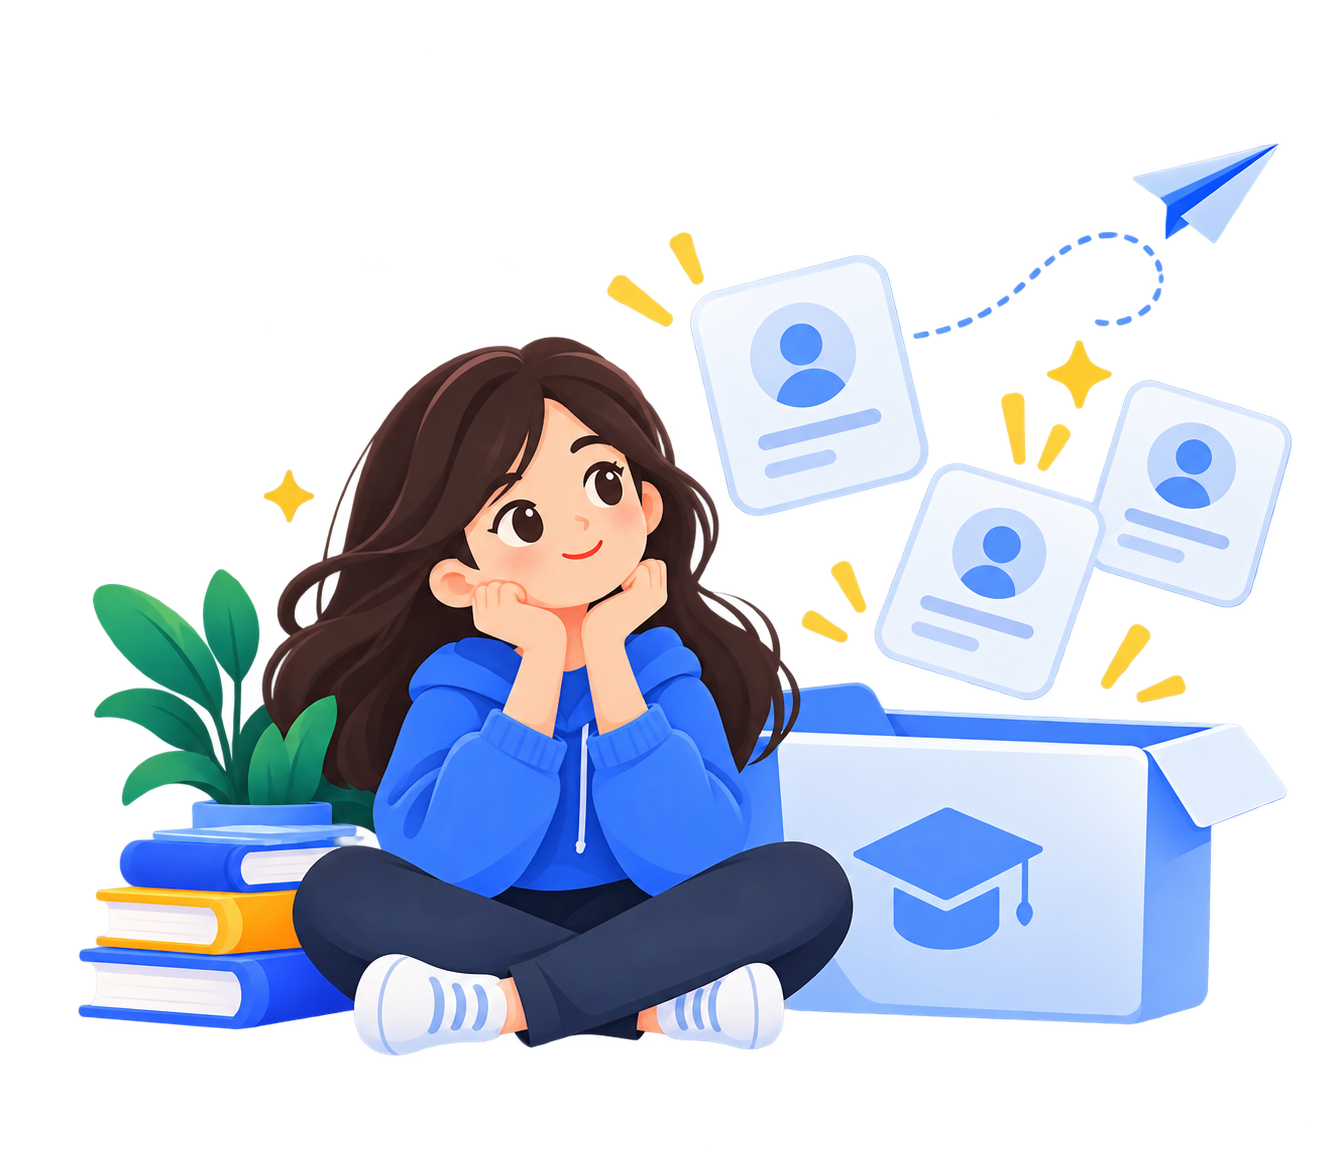
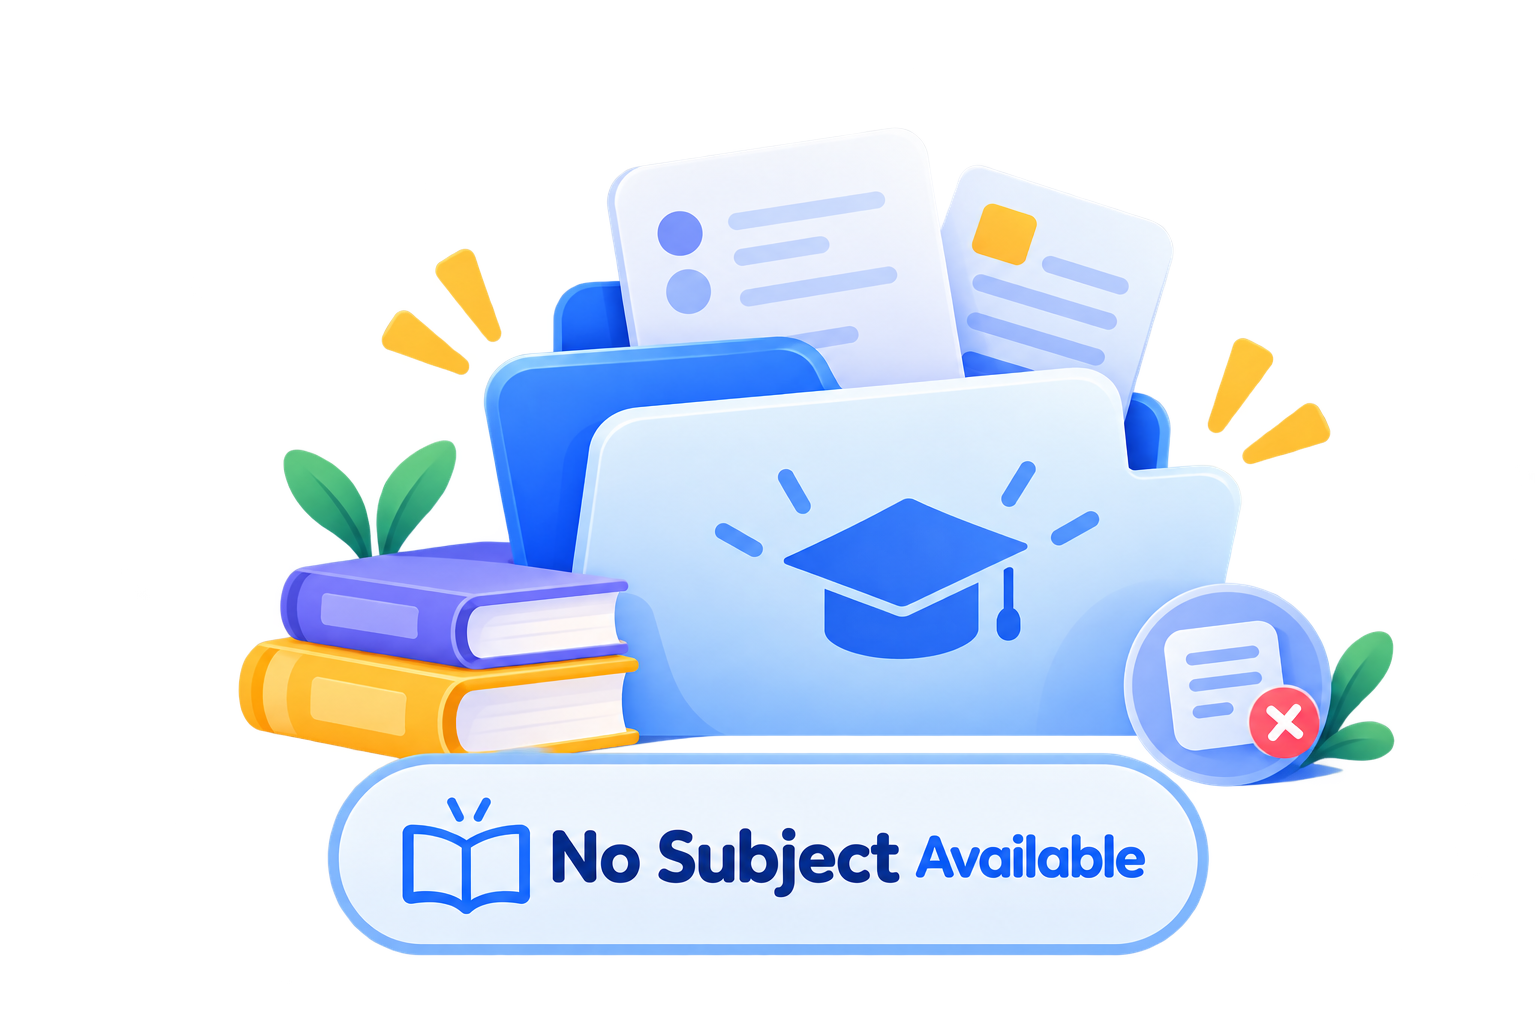
subject as per classes

diff --git a/lib/home/add_subject/custom_widgets/subject_tab.dart b/lib/home/add_subject/custom_widgets/subject_tab.dart
@@ -33,52 +33,61 @@ class _SubjectTabState extends State<SubjectTab> {
         return GetBuilder<SubjectController>(
           builder: (subjectController) {
             return Expanded(
-              child: RefreshIndicator(
-                onRefresh: () async {
-                  await subjectController.fetchClassSubject(
-                    widget.newclass["id"],
-                  );
-                },
-                child: subjectController.subject.isNotEmpty
-                    ? ListView.builder(
-                        physics: BouncingScrollPhysics(),
-                        itemCount: subjectController.subject.length,
-                        itemBuilder: (context, index) {
-                          final subjectdata = subjectController.subject[index];
+              child: subjectController.isloading == true
+                  ? Container(
+                      height: 30.h,
+                      width: 30.w,
+                      child: Center(child: CircularProgressIndicator()),
+                    )
+                  : RefreshIndicator(
+                      onRefresh: () async {
+                        await subjectController.fetchClassSubject(
+                          widget.newclass["id"],
+                        );
+                      },
+                      child: subjectController.subject.isNotEmpty
+                          ? ListView.builder(
+                              physics: BouncingScrollPhysics(),
+                              itemCount: subjectController.subject.length,
+                              itemBuilder: (context, index) {
+                                final subjectdata =
+                                    subjectController.subject[index];
 
-                          return CustomSubjectTile(
-                            subjectName: subjectdata["subject_name"],
-                            index: index,
-                            credits: subjectdata["credits"],
-                            icon: Icons.school_sharp,
-                            onTap: () {
-                              print(
-                                "class name and id " +
-                                    widget.newclass["id"] +
-                                    " " +
-                                    widget.newclass["class_name"],
-                              );
-                            },
-                            onMoreTap: () {
-                              final int subjectId = subjectdata['id'];
+                                return CustomSubjectTile(
+                                  subjectName: subjectdata["subject_name"],
+                                  index: index,
+                                  credits: subjectdata["credits"],
+                                  icon: Icons.school_sharp,
+                                  onTap: () {
+                                    print(
+                                      "class name and id " +
+                                          widget.newclass["id"] +
+                                          " " +
+                                          widget.newclass["class_name"],
+                                    );
+                                  },
+                                  onMoreTap: () {
+                                    final int subjectId = subjectdata['id'];
 
-                              subjectController.deleteSubject(
-                                subjectId,
-                                index,
-                                widget.newclass["id"],
-                              );
-                              print("Subject ID : " + subjectId.toString());
-                            },
-                          );
-                        },
-                      )
-                    : Center(
-                        child: Image.asset(
-                          "assets/nosubjectfound.png",
-                          height: 250.h,
-                        ),
-                      ),
-              ),
+                                    subjectController.deleteSubject(
+                                      subjectId,
+                                      index,
+                                      widget.newclass["id"],
+                                    );
+                                    print(
+                                      "Subject ID : " + subjectId.toString(),
+                                    );
+                                  },
+                                );
+                              },
+                            )
+                          : Center(
+                              child: Image.asset(
+                                "assets/nosubjectfound.png",
+                                height: 250.h,
+                              ),
+                            ),
+                    ),
             );
           },
         );

diff --git a/lib/viewmodel/subject_controller.dart b/lib/viewmodel/subject_controller.dart
@@ -56,6 +56,8 @@ class SubjectController extends GetxController {
 
   Future<void> fetchClassSubject(String classId) async {
     try {
+      isloading = true;
+      update();
       // 1. Get subject IDs assigned to this class
       final classSubjectResponse = await supabase
           .from('class_subject')
@@ -92,6 +94,9 @@ class SubjectController extends GetxController {
       update();
     } catch (e) {
       print("Error fetching class subjects: $e");
+    } finally {
+      isloading = false;
+      update();
     }
   }
 
